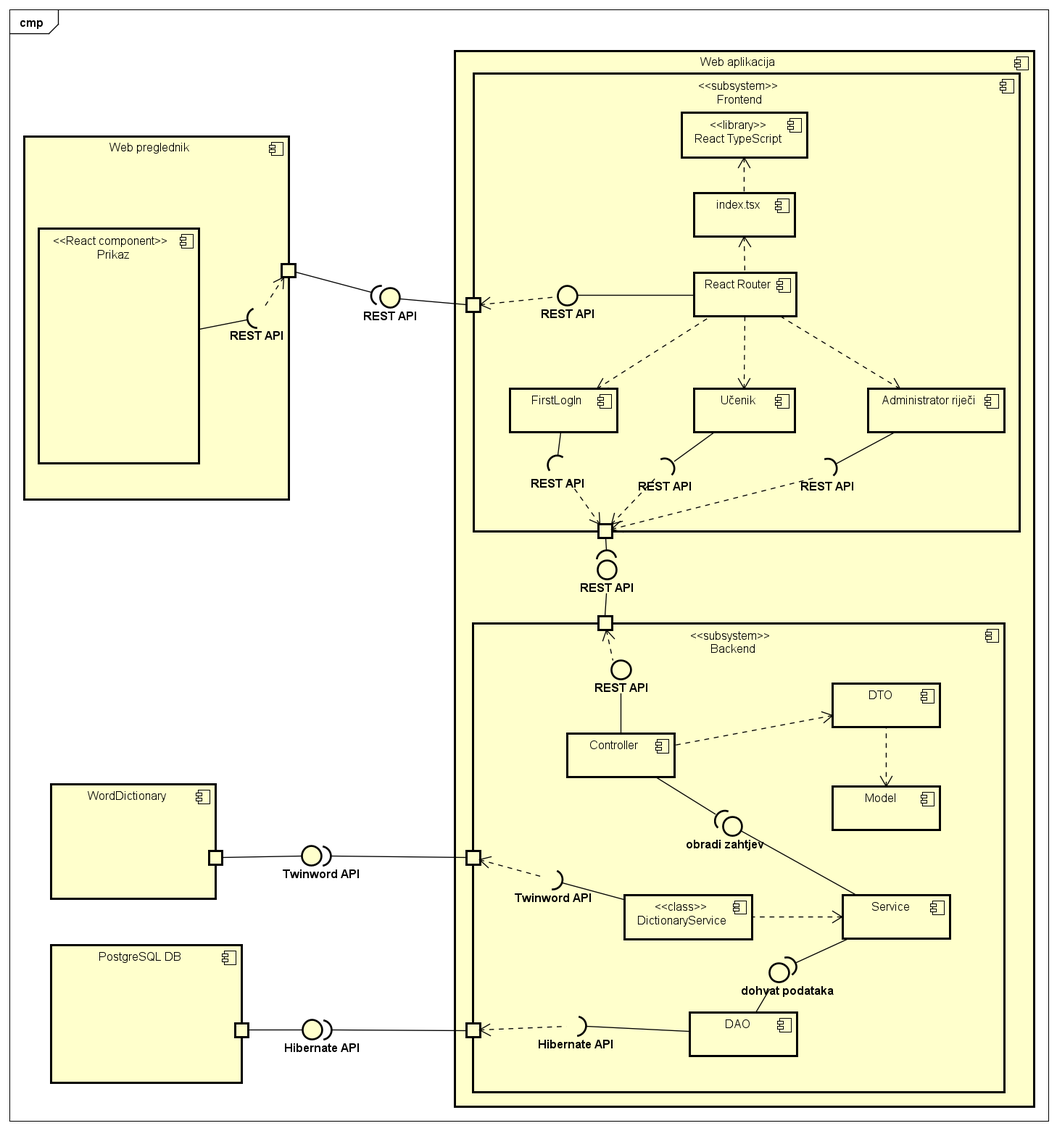
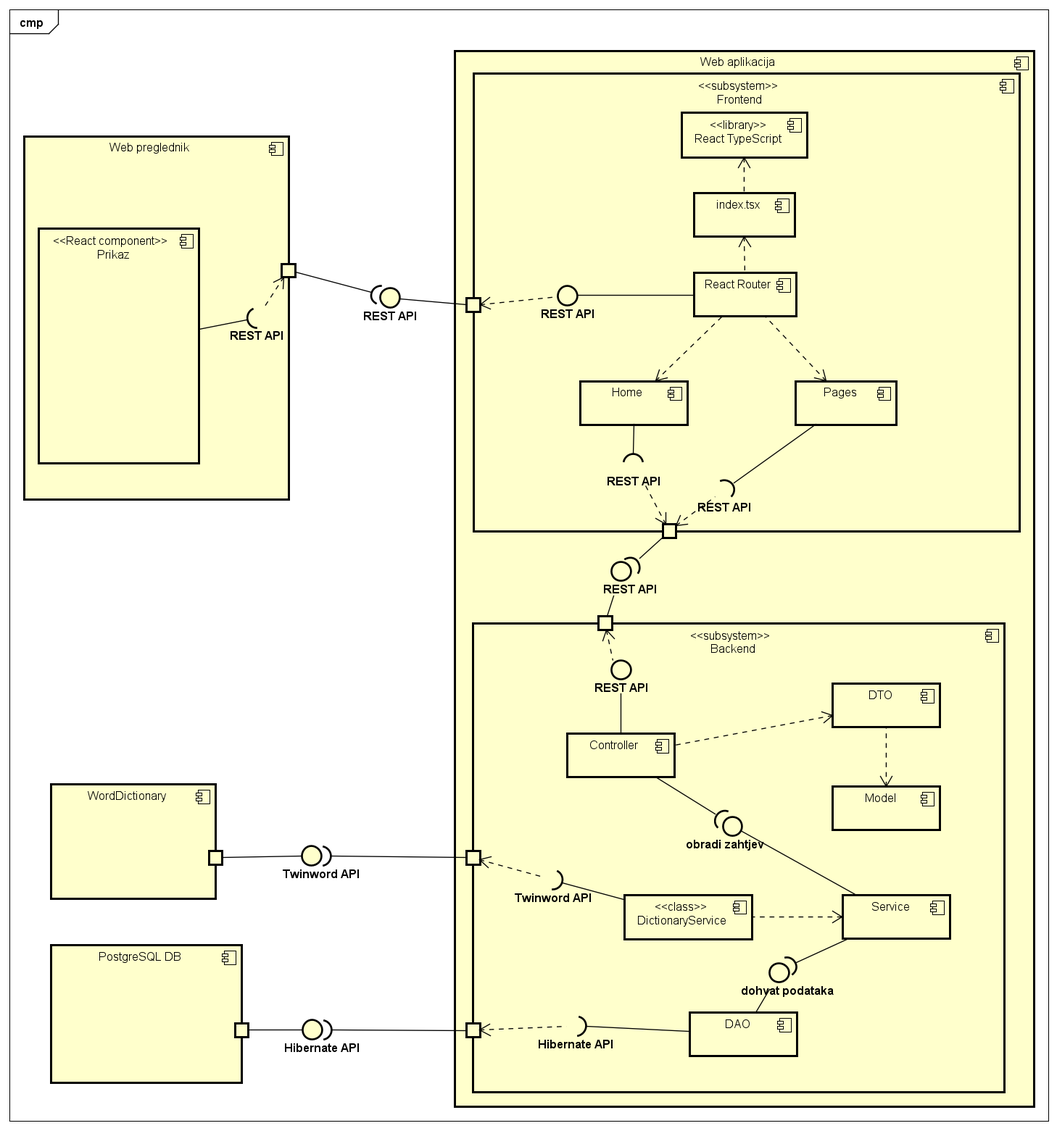
Dodani dijagrami razreda i zaključak projekta

diff --git a/dokumentacija/Arhitektura.tex b/dokumentacija/Arhitektura.tex
@@ -271,31 +271,47 @@
 			
 			%\textit{Prilikom prve predaje projekta, potrebno je priložiti potpuno razrađen dijagram razreda vezan uz \textbf{generičku funkcionalnost} sustava. Ostale funkcionalnosti trebaju biti idejno razrađene u dijagramu sa sljedećim komponentama: nazivi razreda, nazivi metoda i vrste pristupa metodama (npr. javni, zaštićeni), nazivi atributa razreda, veze i odnosi između razreda.}\\
 			
+			Slika 4.2 prikazuje dijagram razreda za cijeli sustav. Zbog toga što je broj razreda prilično velik, u ovom dijagramu navedena su samo imena razreda. S obzirom na to kako je i navođenjem samo imena razreda čitljivost dijagrama mala, pojedini dijelovi sustava se zasebno prikazuju. Slika 4.3 prikazuju paket model koji sadrži razrede koji odgovaraju entitetima u bazi podataka. Slika 4.4 predstavlja paket service koji sadrži razrede istoimenog sloja Java Spring radnog okvira, odnosno konkretne implementacije sučelja u paketu service. Na sloju Service nalazi se poslovna logika aplikacije. Slika 4.5 prikazuje sloj Repository, odnosno paket DAO kojim se može pristupati podacima iz baze podataka. Slika 4.6 prikazuje paket rest koji odgovara sloju Controller u Java Springu. Razredi u sloju Controller primaju zahtjeve na backend strani te raspoređuju zahtjeve drugim razredima u sustavu.
+			
 			\begin{figure}[H]
-				\includegraphics[width=\textwidth]{slike/ClassDiagram1.PNG}
+				\includegraphics[width=\textwidth]{slike/ClassDiagram0.PNG}
+				\caption{Dijagram razreda - cijeli sustav}
+				\label{fig:classDiagram0}
+			\end{figure}
+			
+			\begin{figure}[H]
+				\includegraphics[height=500pt]{slike/ClassDiagram1.PNG}
 				\caption{Dijagram razreda - modeli}
 				\label{fig:classDiagram1}
 			\end{figure}
 			
-			\newpage
-			
-			Slika 4.2 prikazuje razrede koji predstavljaju model u arhitekturi sustava. Dijagram je idejno razrađen. Čini ga razred Roles kojim označavamo o kojem se tipu korisničkog računa radi. On je vezan uz razred Account koji označava sam korisnički račun. Kako postoji više vrsta korisničkog računa te kako sve funkcionalnosti nisu iste za sve vrste korisničkih računa, postoje i razredi Learner i WordAdministrator koji su izvedene razreda Account razreda. Za razred WordAdministrator postoji rekurzivna ovisnost jer je moguće kreirati nove administratore riječi ako je korisnik također administrator riječi. Uz razred Learner veže se razred PronunciationQualityService koji je servis za ocjenu kvalitete izgovora riječi ako je učenik u tom modu učenja, razred LearningMode koji predstavlja mod učenja te ga učenik može promijeniti. Uz razred Learner također se veže i razred CurrentState koji označava trenutno stanje u kojem se učenik nalazi za prije odabrani rječnik. Nadalje, uz razred CurrentState veže se i razred Dictionary koji predstavlja rječnik. Uz rječnik je povezan razred Language jer rječnik pripada jeziku. Uz rječnik također je povezan i razred Word koji predstavlja riječ. Riječ je bolje opisana s nekoliko fraza koje su u modelu sustava razred Phrase. Uz razrede Learner i Word veže se i razred Pot koji je model posude u koju su spremljene riječi i to različito za svakog korisnika. Razredi Language, Word i Dictionary vezani su uz razred WordAdministrator jer administrator riječi može dodavati, brisati i mijenjati sadržaj jezika, rječnika i riječi. Na kraju, postoji i razred ExternalDictionary koji administrator riječi poziva ako želi dobiti prijedlog riječi koje zatim može dodati u neki od rječnika u sustavu. \newpage
+			\begin{figure}[H]
+				\includegraphics[height=500pt]{slike/ClassDiagram2.PNG}
+				\caption{Dijagram razreda - service}
+				\label{fig:classDiagram2}
+			\end{figure}
 			
 			\begin{figure}[H]
-				\includegraphics[width=\textwidth]{slike/ClassDiagram0.PNG}
-				\caption{Dijagram razreda - generičke funkcionalnosti}
-				\label{fig:classDiagram0}
+				\includegraphics[width=\textwidth]{slike/ClassDiagram3.PNG}
+				\caption{Dijagram razreda - repository}
+				\label{fig:classDiagram3}
+			\end{figure}
+			
+			\begin{figure}[H]
+				\includegraphics[width=\textwidth]{slike/ClassDiagram4.PNG}
+				\caption{Dijagram razreda - controller}
+				\label{fig:classDiagram4}
 			\end{figure}
 			
 			\newpage
 			
-			Slika 4.3 prikazuje detaljno razrađen dijagram razreda, ali samo za generičke funkcionalnosti sustava. Razred Account predstavlja istoimeni entitet u bazi podataka s brojnim metodama vezanima uz atribute entiteta, ali i uz autentifikaciju računa. On je povezan s enumeracijskim razredom Roles koji predstavlja listu svih mogućih vrsta korisničkog računa koji su korisnik, odnosno učenik, administrator riječi i korisnik koji se prvi put prijavljuje u sustav te tek mora promijeniti svoju zaporku kako bi mogao pristupiti svim funkcionalnostima sustava. Na dijagramu su također prikazana i dva bitna kontrolera. AuthenticationController provjerava i odgovara na zahtjeve za ulazak u sustav i izlazak iz istoga. AccountController služi za promjenu podataka u sustavu za korisnički račun te također služi i za uklanjanje računa iz sustava. Sučelje AccountService, razredi AccountServiceJpa kao njegova implementacija te AccountUserDetailsService služe za manipulaciju s korisničkim računima kroz bazu podataka. Slično, sučelje AuthenticationService i razred AuthenticationServiceJpa kao implementacija sučelja služe da ulazak u sustav te provjeru ispravnosti podataka kojima korisnik želi pristupiti sustavu. Razred AccountDTOMapper klasa je koja se nalazi na sloju \textit{Service} te služi za prijenos podataka o računu korisnika. Na sloju \textit{Repository} radnog okvira Spring nalazi se sučelje AccountRepository kojim je oblikovano dohvaćanje pohranjenih podataka u bazi podataka. Uz to, postoje i sigurnosni razredi koje služe za očuvanje sigurnosti podataka i sustava, a to su SecurityFilterChainConfig, SecurityController, SecurityConfig. Također, kako bi se vršila provjera ispravne autentifikacije te praćenje valjanosti sjednice, služe nam razredi JWTAuthenticationFilter te JWTUtil. Za početak rada aplikacije te unos početnih podataka u fazi razvoja postoji razred DataInitializer.
+			
 			
 			\newpage
 			
-			\textbf{\textit{dio 2. revizije}}\\			
+			%\textbf{\textit{dio 2. revizije}}\\			
 			
-			\textit{Prilikom druge predaje projekta dijagram razreda i opisi moraju odgovarati stvarnom stanju implementacije}
+			%\textit{Prilikom druge predaje projekta dijagram razreda i opisi moraju odgovarati stvarnom stanju implementacije}
 			
 			
 			
@@ -316,7 +332,7 @@
 			
 			\newpage
 			
-			Slika 4.4 prikazuje dijagram stanja za velik dio sustava. Na dijagramu je prikazano u kojim se stanjima sustav može naći od trenutka prijave (ulaska u sustav) do odjave (napuštanja sustava) korisnika ovisno o tome koja je uloga korisnika, odnosno je li korisnik učenik ili administrator riječi. Prije samo ulaska u sustav, potrebno je provjeriti radi li se o korisniku koji se prvi put prijavljuje u sustav. Ako je to slučaj, tada se korisniku prikazuje stranica za prvu promjenu lozinke iz koje nije moguće izaći dok se ne upiše nova zaporka. Nakon uspješne promjene zaporke, korisnik kao i svi drugi pristupa sustavu u cijelosti. Ovisno o tome koje je vrste korisnički račun, korisniku se prikazuje početna stranica. Učenik s glavne stranice može otići na prikaz svojih podataka gdje iste može izmijeniti ili obrisati svoj račun, može se odjaviti ili može odabrati jedan od ponuđenih jezika. Odabirom jezika, sustav je u stanju prikaza rječnika korisniku. Ako korisnik odabere neki od rječnika, ulazi u stanje biranja jednog od modova učenja nakon čega se prikazuju pitanja. Pitanja se prikazuju dok to korisnik traži i dok postoje nenaučene riječi u posudama. Složeno stanje \textit{Odgovor na pitanje} prikazuje što sve sustav radi tijekom korisnikovog odgovaranja na pitanje. S druge strane, ako je korisnik administrator riječi, tada on kao i učenik može izmijeniti podatke vlastitog računa ili obrisati vlastiti račun ili odjaviti se iz sustava. Nadalje, administrator riječi može upravljati korisničkim računima. Ulaskom u stanje \textit{Upravljanje korisničkim računima} korisnik može birati između opcija dodavanja novog administratora riječi, izmjene nekog podatka za druge korisničke račune u sustavu ili može obrisati neki od korisničkih računa. Administrator riječi također može s početne stranice otići na kreiranje jezika, uređivanje jezike ili može odabrati neki od jezika na što se, slično kao i učeniku, otvara stranica s rječnicima za odabrani jezik. Ulaskom u \textit{Prikaz rječnika} administrator riječi može kreirati novi rječnik, urediti neki od postojećih rječnika, urediti neku od riječi u rječnicima i ukloniti rječnik ili riječ. Uz to, administrator riječi može odabirom opcije "Dodaj riječ" dodati novu riječ u sustav. Pri tome, može se poslužiti vanjskim rječnikom za lakše pronalaženje riječi koju želi dodati.
+			Slika 4.7 prikazuje dijagram stanja za velik dio sustava. Na dijagramu je prikazano u kojim se stanjima sustav može naći od trenutka prijave (ulaska u sustav) do odjave (napuštanja sustava) korisnika ovisno o tome koja je uloga korisnika, odnosno je li korisnik učenik ili administrator riječi. Prije samo ulaska u sustav, potrebno je provjeriti radi li se o korisniku koji se prvi put prijavljuje u sustav. Ako je to slučaj, tada se korisniku prikazuje stranica za prvu promjenu lozinke iz koje nije moguće izaći dok se ne upiše nova zaporka. Nakon uspješne promjene zaporke, korisnik kao i svi drugi pristupa sustavu u cijelosti. Ovisno o tome koje je vrste korisnički račun, korisniku se prikazuje početna stranica. Učenik s glavne stranice može otići na prikaz svojih podataka gdje iste može izmijeniti ili obrisati svoj račun, može se odjaviti ili može odabrati jedan od ponuđenih jezika. Odabirom jezika, sustav je u stanju prikaza rječnika korisniku. Ako korisnik odabere neki od rječnika, ulazi u stanje biranja jednog od modova učenja nakon čega se prikazuju pitanja. Pitanja se prikazuju dok to korisnik traži i dok postoje nenaučene riječi u posudama. Složeno stanje \textit{Odgovor na pitanje} prikazuje što sve sustav radi tijekom korisnikovog odgovaranja na pitanje. S druge strane, ako je korisnik administrator riječi, tada on kao i učenik može izmijeniti podatke vlastitog računa ili obrisati vlastiti račun ili odjaviti se iz sustava. Nadalje, administrator riječi može upravljati korisničkim računima. Ulaskom u stanje \textit{Upravljanje korisničkim računima} korisnik može birati između opcija dodavanja novog administratora riječi, izmjene nekog podatka za druge korisničke račune u sustavu ili može obrisati neki od korisničkih računa. Administrator riječi također može s početne stranice otići na kreiranje jezika, uređivanje jezike ili može odabrati neki od jezika na što se, slično kao i učeniku, otvara stranica s rječnicima za odabrani jezik. Ulaskom u \textit{Prikaz rječnika} administrator riječi može kreirati novi rječnik, urediti neki od postojećih rječnika, urediti neku od riječi u rječnicima i ukloniti rječnik ili riječ. Uz to, administrator riječi može odabirom opcije "Dodaj riječ" dodati novu riječ u sustav. Pri tome, može se poslužiti vanjskim rječnikom za lakše pronalaženje riječi koju želi dodati.
 			
 			\eject 
 		
@@ -334,7 +350,7 @@
 			
 			\newpage
 			
-			Slika 4.5 prikazuje dijagram aktivnosti. Na dijagramu je prikazan proces dodavanja nove riječi. Dijagram je podijeljen na particije koje odgovaraju aktorima koji sudjeluju u prikazanom procesu. Aktivnost započinje tako što administrator riječi odabire jezik. Uz to, nužan uvjet koji mora biti zadovoljen za odabir jezika je uspješna prijava u sustav, odnosno administrator riječi uspješno otvara početnu stranicu. Odabirom jezika, administrator riječi zapravo šalje zahtjev aplikaciji, a ona bazi podataka, za dohvat rječnika dostupnih za odabrani jezik. Nakon prikaza stranice sa svim rječnicima, administrator riječi odabire opciju dodavanja nove riječi. Pri dodavanju nove riječi, administrator riječi može potražiti pomoć od vanjskog rječnika upisom dijela riječi koju bi želio dodati te pokretanjem pretrage. Aplikacija pokreće pretragu riječi te dok traje spajanje aplikacije na vanjski servis administratoru riječi prikazuje poruku kako je pretraga u tijeku. uspješnim spajanjem aplikacije na vanjski rječnik i provedbom pretrage, aplikacija obrađuje rezultate pretrage te na koncu obavještava administratora riječi o rezultatima pretrage. Zatim, neovisno o tome je li administrator riječi odabrao opciju pomoći pri pretrazi, on ispunjava formu za novu riječ. Ispravnim popunjavanjem forme te odabirom rječnika, riječ se sprema u neki od rječnika čime završava aktivnost dodavanja riječi.
+			Slika 4.8 prikazuje dijagram aktivnosti. Na dijagramu je prikazan proces dodavanja nove riječi. Dijagram je podijeljen na particije koje odgovaraju aktorima koji sudjeluju u prikazanom procesu. Aktivnost započinje tako što administrator riječi odabire jezik. Uz to, nužan uvjet koji mora biti zadovoljen za odabir jezika je uspješna prijava u sustav, odnosno administrator riječi uspješno otvara početnu stranicu. Odabirom jezika, administrator riječi zapravo šalje zahtjev aplikaciji, a ona bazi podataka, za dohvat rječnika dostupnih za odabrani jezik. Nakon prikaza stranice sa svim rječnicima, administrator riječi odabire opciju dodavanja nove riječi. Pri dodavanju nove riječi, administrator riječi može potražiti pomoć od vanjskog rječnika upisom dijela riječi koju bi želio dodati te pokretanjem pretrage. Aplikacija pokreće pretragu riječi te dok traje spajanje aplikacije na vanjski servis administratoru riječi prikazuje poruku kako je pretraga u tijeku. uspješnim spajanjem aplikacije na vanjski rječnik i provedbom pretrage, aplikacija obrađuje rezultate pretrage te na koncu obavještava administratora riječi o rezultatima pretrage. Zatim, neovisno o tome je li administrator riječi odabrao opciju pomoći pri pretrazi, on ispunjava formu za novu riječ. Ispravnim popunjavanjem forme te odabirom rječnika, riječ se sprema u neki od rječnika čime završava aktivnost dodavanja riječi.
 			
 			\eject
 		\section{Dijagram komponenti}
@@ -351,5 +367,5 @@
 			 
 			 \newpage
 			 
-			 Slika 4.6 prikazuje dijagram komponenti. Dijagram komponenti prikazuje povezanost i organizaciju komponenti programske potpore. Glavne komponente od kojih se dijagram sastoji su Web preglednik, Web aplikacija, WordDictionary i baza podataka PostgreSQL. Sama Web aplikacija se sastoji od frontend i backend dijela. Klijent pristupa sustavu preko svog web preglednika. Web aplikacija, točnije frontend dio web aplikacija pruža sučelje koristeći REST API web pregledniku, a time i klijentu. Backend dio aplikacije komunicira s dvije komponente, komponentom WordDictionary i bazom podataka. Komponenta WordDictionary je vanjski rječnik preko kojeg web aplikacija pretražuje riječi koje se zatim mogu dodati u rječnike. Komunikacija između komponente WordDictionary i backend dijela web aplikacije ostvaruje se preko pripadnog Twinword API kojeg komponenta WordDictionary nudi web aplikaciji. Druga komponenta s kojom backend komunicira je PostgreSQL baza podataka. Baza podataka služi za pohranu svih podataka u sustavu. Komunikacije te dvije komponente ostvaruje se preko Hibernate API sučelja koje baza podataka nudi aplikaciji. Dijelovi web aplikacije ne rade neovisno, već postoji međusobna komunikacije te dvije komponente. Komunikacija se ostvaruje preko REST API-a. Frontend šalje backendu zahtjeve i podatke za obradu. Frontend dio sastoji se od glavne stranice i nekoliko rutera. Ruteri unutar aplikacije najopćenitije mogu se podijeliti na FirstLogIn koji se odnosi na stranicu koja se korisniku prikazuje prilikom prve prijave u sustav, Učenik i Administrator riječi koji služe za prikaz svih funkcionalnosti korisniku ovisno o tome kojeg je tipa korisnik. Svaki od rutera može komunicirati s backend dijelom aplikacije. S druge strane, backend dio od nešto više različitih komponenti. Backend dio aplikacije izgrađen je s pomoću Java Spring radnog okvira pa tako backend dio sadrži komponente poput Controller, Service, DAO. Komponenta Controller komunicira s frontend dijelom aplikacije te obradu dalje prosljeđuje kroz Service komponentu. Service komponenta sadrži poslovnu logiku aplikacije te može pristupati podacima iz baze podataka preko komponente DAO. DAO (Data Access Object) predstavlja Repository sloj u Spring aplikaciji i ona izravno može pristupati bazi podataka. Osim opisanih komponenti, backend dio aplikacije sadrži još neke komponente. DTO (Data Transfer Object) komponenta je koja služi za pretvorbu Modela u objekt. Model komponenta predstavlja sve entitete baze podataka. Osim ovih komponenti, dijagram komponenti sadrži i klasu DictionaryService koja je izdvojena iz komponente Service te predstavlja razred kojim se ostvaruje komunikacija s vanjskim rječnikom, odnosno komponentom WordDictionary.
+			 Slika 4.9 prikazuje dijagram komponenti. Dijagram komponenti prikazuje povezanost i organizaciju komponenti programske potpore. Glavne komponente od kojih se dijagram sastoji su Web preglednik, Web aplikacija, WordDictionary i baza podataka PostgreSQL. Sama Web aplikacija se sastoji od frontend i backend dijela. Klijent pristupa sustavu preko svog web preglednika. Web aplikacija, točnije frontend dio web aplikacija pruža sučelje koristeći REST API web pregledniku, a time i klijentu. Backend dio aplikacije komunicira s dvije komponente, komponentom WordDictionary i bazom podataka. Komponenta WordDictionary je vanjski rječnik preko kojeg web aplikacija pretražuje riječi koje se zatim mogu dodati u rječnike. Komunikacija između komponente WordDictionary i backend dijela web aplikacije ostvaruje se preko pripadnog Twinword API kojeg komponenta WordDictionary nudi web aplikaciji. Druga komponenta s kojom backend komunicira je PostgreSQL baza podataka. Baza podataka služi za pohranu svih podataka u sustavu. Komunikacije te dvije komponente ostvaruje se preko Hibernate API sučelja koje baza podataka nudi aplikaciji. Dijelovi web aplikacije ne rade neovisno, već postoji međusobna komunikacije te dvije komponente. Komunikacija se ostvaruje preko REST API-a. Frontend šalje backendu zahtjeve i podatke za obradu. Frontend dio sastoji se od glavne stranice i nekoliko rutera. Ruteri unutar aplikacije najopćenitije mogu se podijeliti na Home koji se odnosi na stranicu koja se korisniku prikazuje prilikom prijave u sustav, Pages koji služe za prikaz svih funkcionalnosti korisniku ovisno o tome kojeg je tipa korisnik. Svaki od rutera može komunicirati s backend dijelom aplikacije. S druge strane, backend dio od nešto više različitih komponenti. Backend dio aplikacije izgrađen je s pomoću Java Spring radnog okvira pa tako backend dio sadrži komponente poput Controller, Service, DAO. Komponenta Controller komunicira s frontend dijelom aplikacije te obradu dalje prosljeđuje kroz Service komponentu. Service komponenta sadrži poslovnu logiku aplikacije te može pristupati podacima iz baze podataka preko komponente DAO. DAO (Data Access Object) predstavlja Repository sloj u Spring aplikaciji i ona izravno može pristupati bazi podataka. Osim opisanih komponenti, backend dio aplikacije sadrži još neke komponente. DTO (Data Transfer Object) komponenta je koja služi za pretvorbu Modela u objekt. Model komponenta predstavlja sve entitete baze podataka. Osim ovih komponenti, dijagram komponenti sadrži i klasu DictionaryService koja je izdvojena iz komponente Service te predstavlja razred kojim se ostvaruje komunikacija s vanjskim rječnikom, odnosno komponentom WordDictionary.
 			 

diff --git a/dokumentacija/Implementacija.tex b/dokumentacija/Implementacija.tex
@@ -3,9 +3,11 @@
 		
 		\section{Korištene tehnologije i alati}
 		
-			\textbf{\textit{dio 2. revizije}}
+			%\textbf{\textit{dio 2. revizije}}
 			
-			 \textit{Detaljno navesti sve tehnologije i alate koji su primijenjeni pri izradi dokumentacije i aplikacije. Ukratko ih opisati, te navesti njihovo značenje i mjesto primjene. Za svaki navedeni alat i tehnologiju je potrebno \textbf{navesti internet poveznicu} gdje se mogu preuzeti ili više saznati o njima}.
+			 %\textit{Detaljno navesti sve tehnologije i alate koji su primijenjeni pri izradi dokumentacije i aplikacije. Ukratko ih opisati, te navesti njihovo značenje i mjesto primjene. Za svaki navedeni alat i tehnologiju je potrebno \textbf{navesti internet poveznicu} gdje se mogu preuzeti ili više saznati o njima}.
+			 
+			 Za ostvarenje komunikacije između članova projektnog tima korištena je aplikacija WhatsApp\footnote{https://www.whatsapp.com/}. Za održavanje sastanaka unutar tima korištena je platforma MS Teams\footnote{https://www.microsoft.com/microsoft-teams/}. Komunikacija s demonstratorom i asistentom ostvarena je također s pomoću platforme MS Teams. Praćenje napretka i raspodjela zadataka u timu ostvarena je pomoću alata Jira\footnote{https://www.atlassian.com/software/jira}. Jira pomoću tzv. issue nudi pogućnost podijele izrade u manje zadatke koji se zatim mogu pridijeliti nekom od članova tima. Svaki od člana tima zatim može za svaki zadatak prikazati u kojoj je fazi izrade što ostalim članovima nudi mogućnost uvida u to na čemu drugi članovi tima trenutno rade. Upravljanje izvornim kodom i dokumentacijom ostvareno je s pomoću alata Git\footnote{https://git-scm.com/}. Udaljeni repozitorij pohranjen je na platformi GitHub\footnote{https://github.com/}. Za izradu dokumentacije projekta korišten je LaTeX\footnote{https://www.latex-project.org/}. UML dijagram obrazaca uporabe, sekvencijski dijagram, prva revizija dijagrama razreda, dijagram aktivnosti, dijagram stanja, dijagram komponenti i dijagram razmještaja napravljeni su s pomoću alata Astah UML\footnote{https://astah.net/products/astah-uml/}. Implementacijski dijagram razreda napravljen je s pomoću alata IntelliJ IDEA\footnote{https://www.jetbrains.com/idea/}. Model baze podataka izgrađen je alatom ERDPlus\footnote{https://erdplus.com/}. Za izradu backend dijela aplikacije korišten je radni okvir Java\footnote{https://www.java.com/en/} Spring\footnote{https://spring.io/}, a za razvoj na backendu korišteno je razvojno okruženje IntelliJ IDEA. Za izradu frontend dijela aplikacije korištena je knjižnica React\footnote{https://react.dev/} uz programski jezik TypeScript\footnote{https://www.typescriptlang.org/}. Za ispitivanje sustava korišteni su JUnit\footnote{https://junit.org/} i Selenium\footnote{https://www.selenium.dev/}. Za puštanje aplikacije u pogon korištena je platforma Render\footnote{https://render.com/}.
 			
 			
 			\eject 
@@ -15,27 +17,27 @@
 
 			\subsection{Ispitivanje komponenti}
 			
-			\subsection{Testiranje Gettera i Settera}
-
+						\subsection{Testiranje Gettera i Settera}
+			
 			TestGettersAndSetters služi za provjeru ispravnosti gettera i settera za klasu \texttt{Account}. U ovom testu se inicijalizira objekt \texttt{Account} s određenim podacima (email, ime, prezime, lozinka, i uloga), a zatim se koriste getteri za dohvaćanje tih podataka i setteri za postavljanje novih vrijednosti. Nakon postavljanja novih vrijednosti, ponovno se koriste getteri za provjeru je li objekt uspješno promijenjen prema očekivanjima.
-
+			
 			\begin{lstlisting}
 				@Test
 				public void testGettersAndSetters() {
 					Account account = new Account("test@example.com", "John", "Doe", "password", Roles.USER);
-			
+					
 					Assertions.assertEquals("test@example.com", account.getEmail());
 					Assertions.assertEquals("John", account.getFirstName());
 					Assertions.assertEquals("Doe", account.getLastName());
 					Assertions.assertEquals("password", account.getPassword());
 					Assertions.assertEquals(Roles.USER, account.getRole());
-			
+					
 					account.setEmail("newemail@example.com");
 					account.setFirstName("Jane");
 					account.setLastName("Smith");
 					account.setPassword("newpassword");
 					account.setRole(Roles.ADMIN);
-			
+					
 					Assertions.assertEquals("newemail@example.com", account.getEmail());
 					Assertions.assertEquals("Jane", account.getFirstName());
 					Assertions.assertEquals("Smith", account.getLastName());
@@ -43,68 +45,68 @@
 					Assertions.assertEquals(Roles.ADMIN, account.getRole());
 				}
 			\end{lstlisting}
-
+			
 			\subsection{Testiranje Token Verzije}
 			
 			TestTokenVersion provjerava funkcionalnost metoda za rad s token verzijom (\texttt{getTokenVersion()}, \texttt{incrementTokenVersion()}, \texttt{setTokenVersion()}) za klasu \texttt{Account}. Prvo se inicijalizira objekt \texttt{Account}, a zatim se provjerava da li je početna vrijednost token verzije jednaka 0. Nakon toga, koristi se metoda \texttt{incrementTokenVersion()} za povećanje verzije za 1 i provjerava se da li je nova vrijednost 1. Također se koristi metoda \texttt{setTokenVersion()} za postavljanje verzije na 5 i provjerava se je li postavljena vrijednost ispravna.
-
+			
 			\begin{lstlisting}
 				@Test
 				public void testTokenVersion() {
 					Account account = new Account("test@example.com", "John", "Doe", "password", Roles.USER);
-			
+					
 					Assertions.assertEquals(0L, account.getTokenVersion());
-			
+					
 					account.incrementTokenVersion();
 					Assertions.assertEquals(1L, account.getTokenVersion());
-			
+					
 					account.setTokenVersion(5L);
 					Assertions.assertEquals(5L, account.getTokenVersion());
 				}
 			\end{lstlisting}
-
+			
 			\subection{Testiranje Metode \texttt{toString()}}
-
+			
 			ToString test provjerava da li metoda \texttt{toString()} klase \texttt{Account} vraća očekivani format teksta. Prvo se inicijalizira objekt \texttt{Account} s određenim podacima, a zatim se koristi metoda \texttt{toString()} za dobivanje string reprezentacije objekta. Očekivana string reprezentacija se uspoređuje s unaprijed definiranom očekivanom vrijednošću.
-
+			
 			\begin{lstlisting}
 				@Test
 				public void testToString() {
 					Account account = new Account("test@example.com", "John", "Doe", "password", Roles.USER);
-			
+					
 					String expectedToString = "Account{" +
-							"id=null" +
-							", email='test@example.com'" +
-							", firstName='John'" +
-							", lastName='Doe'" +
-							", password='password'" +
-							", role=USER" +
-							", tokenVersion=0" +
-							'}';
-			
+						"id=null" +
+						", email='test@example.com'" +
+						", firstName='John'" +
+						", lastName='Doe'" +
+						", password='password'" +
+						", role=USER" +
+						", tokenVersion=0" +
+						'}';
+					
 					Assertions.assertEquals(expectedToString, account.toString());
 				}
 			\end{lstlisting}
-
+			
 			\subsection{Testiranje Metode \texttt{testLoadUserByUsername_ThrowsException()}}
-
+			
 			Koristi se Assertions.assertThrows iz JUnit frameworka kako bi se provjerilo da će poziv loadUserByUsername(email) metode iz accountUserDetailsService doista izazvati iznimku tipa UsernameNotFoundException. Očekuje se da metoda loadUserByUsername baci iznimku kada korisnik s navedenim emailom ne postoji u sustavu.
 			
 			\begin{lstlisting}
 				@Test
 				public void testLoadUserByUsername_ThrowsException() {
 					String email = "test@example.com";
-			
+					
 					when(accountService.findByEmail(email)).thenReturn(Optional.empty());
-			
+					
 					Assertions.assertThrows(UsernameNotFoundException.class, () -> {
 						accountUserDetailsService.loadUserByUsername(email);
 					});
 				}
 			\end{lstlisting}
-
+			
 			\subsection{Testiranje Metode \texttt{testGetAllDicts_EmptyList()}}	
-
+			
 			\begin{itemize}
 				\item \textbf{Arrange}: Postavlja se ponašanje mock objekta \texttt{dictionaryService} kako bi simulirali situaciju kada nema rječnika. Očekujemo da će \texttt{dictionaryService.getAllDicts()} vratiti praznu listu koristeći \texttt{when} metodu.
 				
@@ -114,29 +116,29 @@
 				
 				\item \textbf{Verify}: Koristi se \texttt{verify} kako bi se provjerilo da je \texttt{dictionaryService.getAllDicts()} pozvana točno jednom i da nije bilo više interakcija s tim servisom (\texttt{verifyNoMoreInteractions(dictionaryService)}).
 			\end{itemize}
-
+			
 			\begin{lstlisting}
-
+				
 				@Test
 				public void testGetAllDicts_EmptyList() {
 					// Arrange
 					when(dictionaryService.getAllDicts()).thenReturn(Collections.emptyList());
-			
+					
 					// Act
 					ResponseEntity<List<Dictionary>> response = dictionaryController.GET();
-			
+					
 					// Assert
 					Assertions.assertEquals(HttpStatus.NOT_FOUND, response.getStatusCode());
 					Assertions.assertEquals(Collections.emptyList(), response.getBody());
-			
+					
 					verify(dictionaryService, times(1)).getAllDicts();
 					verifyNoMoreInteractions(dictionaryService);
 				}
-
+				
 			\end{lstlisting}
 			
 			\subsection{Testiranje Metode \texttt{testGetAllDicts_NonEmptyList()}}	
-
+			
 			\begin{itemize}
 				\item \textbf{Arrange}: Postavlja se ponašanje mock objekta \texttt{dictionaryService} kako bi simulirali situaciju kada lista rječnika sadrži nekoliko rječnika. Očekujemo da će \texttt{dictionaryService.getAllDicts()} vratiti listu rječnika koristeći \texttt{when} metodu.
 				
@@ -146,26 +148,26 @@
 				
 				\item \textbf{Verify}: Koristi se \texttt{verify} kako bi se provjerilo da je \texttt{dictionaryService.getAllDicts()} pozvana točno jednom i da nije bilo više interakcija s tim servisom (\texttt{verifyNoMoreInteractions(dictionaryService)}).
 			\end{itemize}
-
+			
 			\begin{lstlisting}
-
+				
 				@Test
 				public void testGetAllDicts_NonEmptyList() {
 					// Arrange
 					List<Dictionary> dictionaries = List.of(new Dictionary(), new Dictionary());
 					when(dictionaryService.getAllDicts()).thenReturn(dictionaries);
-			
+					
 					// Act
 					ResponseEntity<List<Dictionary>> response = dictionaryController.GET();
-			
+					
 					// Assert
 					Assertions.assertEquals(HttpStatus.OK, response.getStatusCode());
 					Assertions.assertEquals(dictionaries, response.getBody());
-			
+					
 					verify(dictionaryService, times(1)).getAllDicts();
 					verifyNoMoreInteractions(dictionaryService);
 				}
-
+				
 			\end{lstlisting}
 
 			\subsection{Ispitivanje sustava}

diff --git a/dokumentacija/Zakljucak.tex b/dokumentacija/Zakljucak.tex
@@ -1,9 +1,19 @@
 \chapter{Zaključak i budući rad}
 		
-		\textbf{\textit{dio 2. revizije}}\\
+		%\textbf{\textit{dio 2. revizije}}\\
 		
-		 \textit{U ovom poglavlju potrebno je napisati osvrt na vrijeme izrade projektnog zadatka, koji su tehnički izazovi prepoznati, jesu li riješeni ili kako bi mogli biti riješeni, koja su znanja stečena pri izradi projekta, koja bi znanja bila posebno potrebna za brže i kvalitetnije ostvarenje projekta i koje bi bile perspektive za nastavak rada u projektnoj grupi.}
+		 %\textit{U ovom poglavlju potrebno je napisati osvrt na vrijeme izrade projektnog zadatka, koji su tehnički izazovi prepoznati, jesu li riješeni ili kako bi mogli biti riješeni, koja su znanja stečena pri izradi projekta, koja bi znanja bila posebno potrebna za brže i kvalitetnije ostvarenje projekta i koje bi bile perspektive za nastavak rada u projektnoj grupi.}
 		
-		 \textit{Potrebno je točno popisati funkcionalnosti koje nisu implementirane u ostvarenoj aplikaciji.}
+		 %\textit{Potrebno je točno popisati funkcionalnosti koje nisu implementirane u ostvarenoj aplikaciji.}
+		 
+		 Zadatak projektnog tima MISIJA-V bila je izrada web aplikacije naziva "FlipMemo". Web aplikacija služi za učenje stranih jezika na osnovu ponavljanja s odmakom. Izrada projekta trajala je 9 tjedana te je projektni tim bio sastavljen od 7 članova. Izrada aplikacije bila je podijeljena na dvije faze, prva koja je trajala 4 tjedna i druga koja je trajala 2 tjedna.
+		 
+		 U prvoj fazi naglasak je bio na oblikovanju sustava i implementaciji generičkih funkcionalnosti. Oblikovanje sustava uključivalo je izlučivanje zahtjeva, izradu brojnih UML dijagrama i oblikovanje arhitekture sustava. Implementacija generičkih aktivnosti uključivala je izradu početne stranice, spajanje suatava u cjelinu i sl.
+		 
+		 U drugoj fazi naglasak je bio na implementaciji prethodno oblikovanog suatava. I u ovoj fazi se radilo na dokumentaciji pa je tako izrađeno nekoliko UML dijagrama. U ovoj fazi cilj je bio završetak projekta u cijelosti što znači kako su se u ovoj fazi trebale implementirati sve naprednije funkcionalosti sustava.
+		 
+		 Ovaj projekt pružio je članovima projektnog tima upoznavanje s tehnologijama kao što su Git, LaTeX i radnim okvirima i knjižnicama kao što su Spring i React. Ovaj projekt je bio mogućnost za sve članove time upoznati se s radom u timu na ozbiljnijem grupnom projektu.
+		 
+		 Izgrađena web aplikacija se može prošiti i unaprijediti. Neka od proširenja bi bila uvođenje lekcija koje bi mogle uključivati neke rječnike, napredniji načini postavljanja pitanja, napredniji načini ponavljanja riječi korisniku, implementacija stvarnog sučelja za ispitivanje kvalitete izgovora i sl.
 		
 		\eject 

diff --git a/dokumentacija/Dnevnik_promjena_dokumentacije.tex b/dokumentacija/Dnevnik_promjena_dokumentacije.tex
@@ -30,7 +30,7 @@
 	\textbf{1.0} & Izmjena datuma predaje & Vinko Đurić & 17.11.2023. \\[3pt] \hline	
 	1.1 & Dodani dijagrami stanja i aktivnosti, ispravljeni dijagrami obrazaca uporabe & Vinko Đurić & 14.12.2023. \\[3pt] \hline	
 	1.2 & Dodani dijagrami komponenti i razmještaja & Vinko Đurić & 11.1.2024. \\[3pt] \hline	
-	&  &  & \\[3pt] \hline	
+	1.3 & Dodani dijagrami razreda i ispitivanje komponenti & Vinko Đurić Ivan Žagar & 19.1.2024.\\[3pt] \hline	
 	&  &  & \\[3pt] \hline
 	&  &  & \\[3pt] \hline
 	

diff --git a/dokumentacija/Literatura.tex b/dokumentacija/Literatura.tex
@@ -1,9 +1,9 @@
 \chapter*{Popis literature}
 		\addcontentsline{toc}{chapter}{Popis literature}
 	 	
- 		\textbf{\textit{Kontinuirano osvježavanje}}
+ 		%\textbf{\textit{Kontinuirano osvježavanje}}
 	
-		\textit{Popisati sve reference i literaturu koja je pomogla pri ostvarivanju projekta.}
+		%\textit{Popisati sve reference i literaturu koja je pomogla pri ostvarivanju projekta.}
 		
 		
 		\begin{enumerate}
